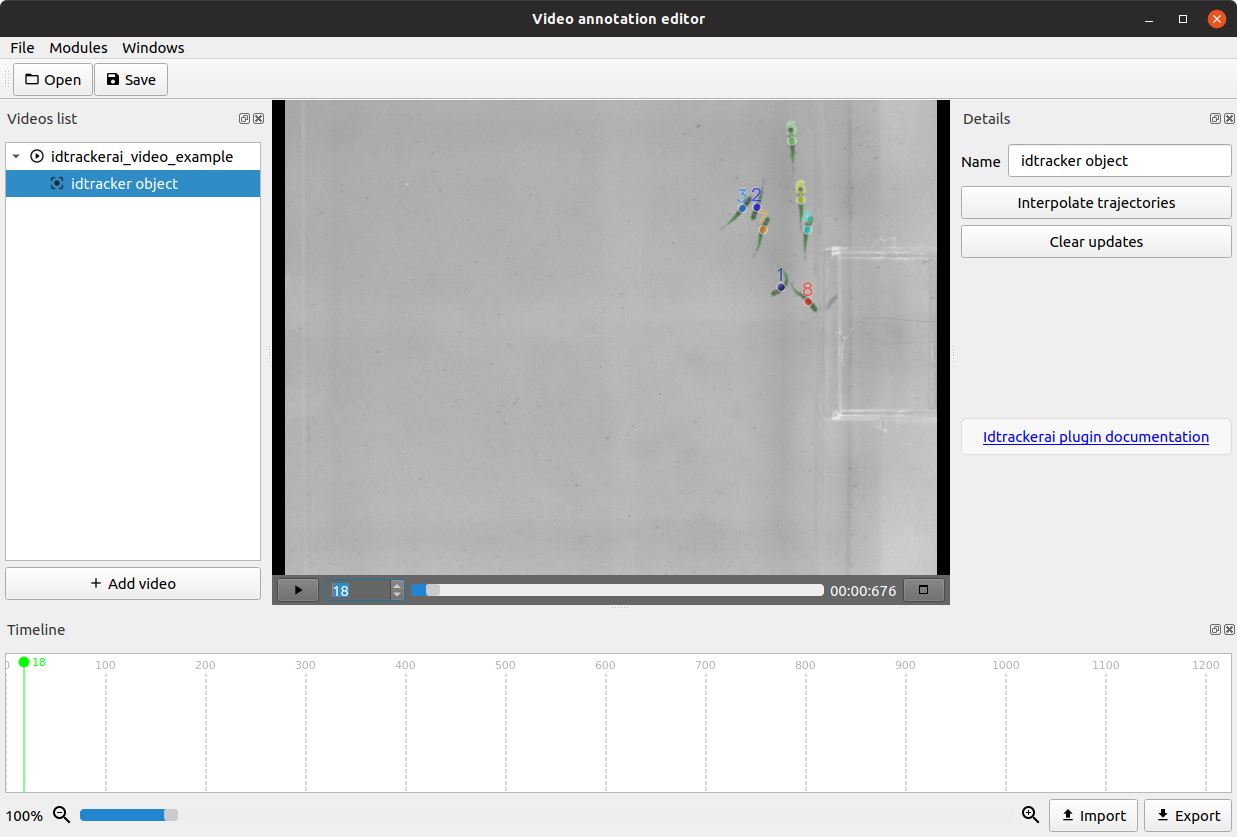
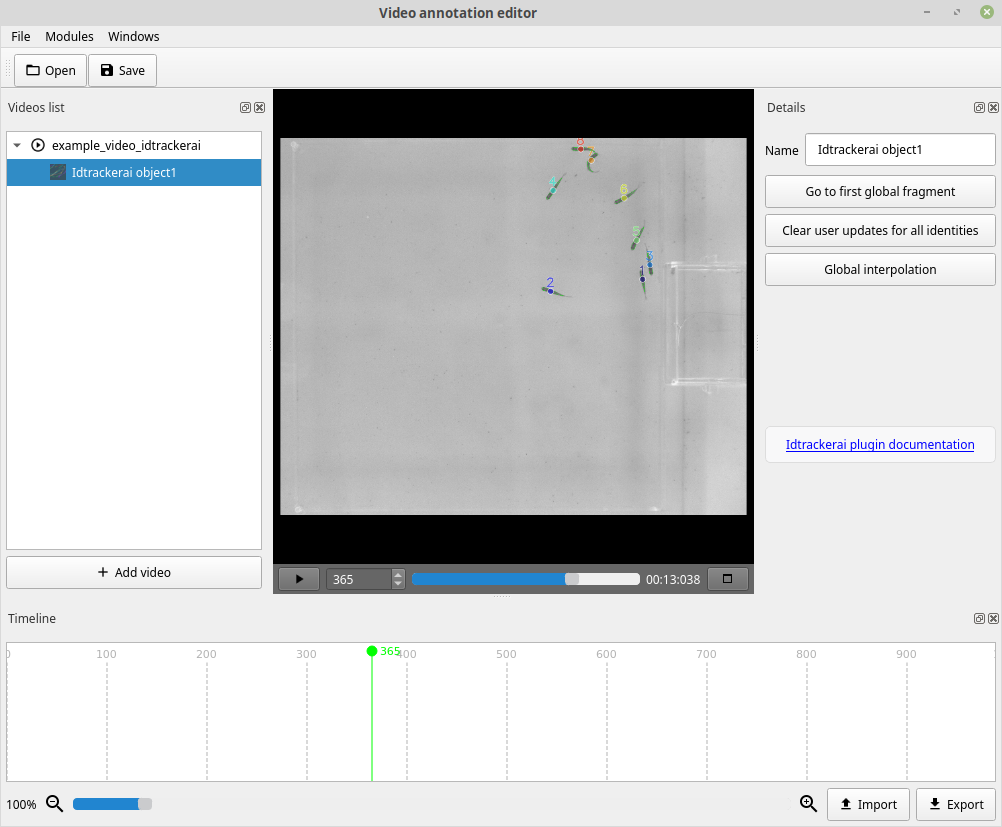
updating docs of idtrackerai subomdule

diff --git a/docs/source/modules/idtrackerai.rst b/docs/source/modules/idtrackerai.rst
@@ -1,33 +1,22 @@
-===========
-Idtrackerai
-===========
+idtracker.ai
+============
 
-This plugin adds functions to correct the tracking and manipulate Idtrackerai projects.
+This plugin adds functions to correct the trajetories from idtracker.ai sessions.
 You can visit the project @ `idtracker.ai <https://www.idtracker.ai/>`_
+
+Load an idtracker.ai tracking session
+_____________________________________
+
+If you finished tracking a video using the GUI from `idtracker.ai <https://www.idtracker.ai/>`_, you can press the **Validate trajectories** button on the bottom left corner to open the validation GUI. The current tracking session will be automatically loaded into the video annotator.
+
+To load an idtracker.ai session from scratch, run the video annotator (see :doc:`../_static/install_and_run/index`), press the button **Open** and open the session folder you want to load. This will automatically read the necessary files from the session folder and create an "Idtrackerai object".
 
 Correct the tracking
 ____________________
 
-Select the Idtrackerai object in the project tree.
+To visualize the trajectories and start validating them, make sure that an "Idtrackerai object" is selected (highligthed in blue in the "Video list" panel).
 
 .. image:: /_static/modules/idtrackerai_1_select_obj.png
-
-On the details section will see the options available to manipulate the tracking.
-
-**Interpolate trajectories** - You can interpolate trajectories for all the objects IDs or just for a single ID.
-To interpolate the trajectory of a single ID you should select the Its centroid first.
-
-**Clear updates** - You can interpolate trajectories of all the objects at the same time or just for a single ID.
-To do the interpolation just for a single ID you should select its centroid first.
-
-**Update a centroid ID** - Double click over a centroid and sets the new centroid ID in the window that will popup.
-
-**Update a centroid position** - Select the centroid and drag it the the new position.
-
-**Delete centroid** - The button is only available when you select a centroid from a single blob that has multiple centroids associated to it.
-
-**Add centroid** - Adds a new centroid to the selected blob. The function is only available if the user selects a blob's centroid. To add a new centroid the user should first check the checkbox "Add centroid" and click in a position of the video.
-
 
 Select a centroid
 ____________________
@@ -45,4 +34,3 @@ EVENT                                                                       SHOR
 Go to the next crossing.                                                     Ctrl+M
 Go to the previous crossing.                                                 Ctrl+N
 ==========================================================================  =================================
-
